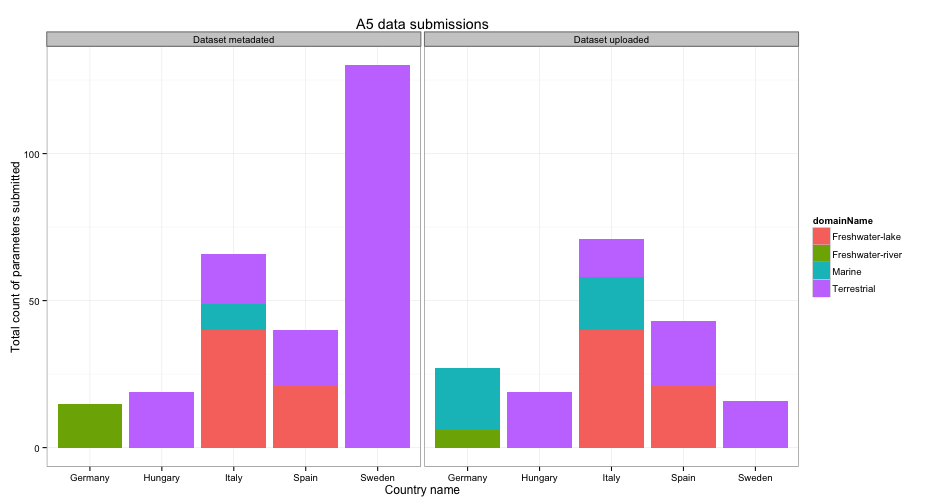
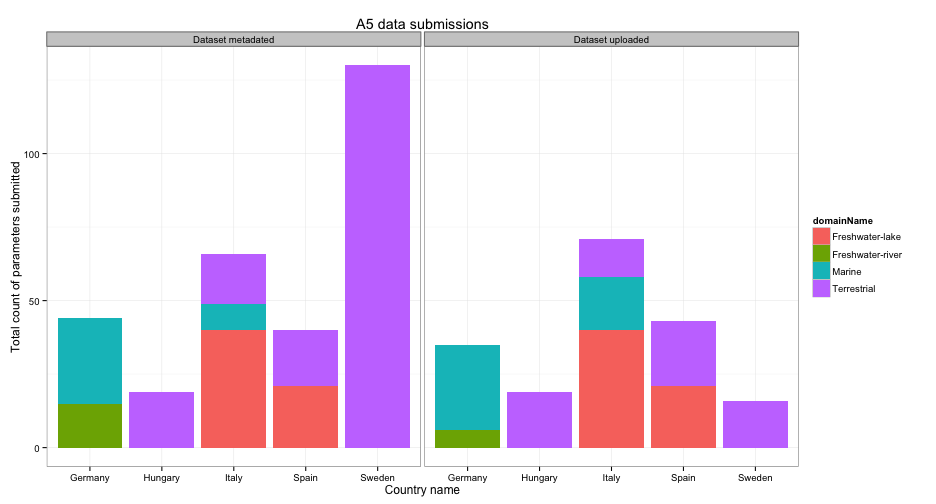
publishing deck

Changed region(s): [[0.062, 0.625, 0.1549, 0.8036], [0.4647, 0.6845, 0.5577, 0.744]]

diff --git a/index.html b/index.html
@@ -48,9 +48,9 @@
   </hgroup>
   <article>
     <ul>
-<li>Last updated <code>2013-03-26</code></li>
+<li>Last updated <code>2013-03-27</code></li>
 <li>Deadline for data submission: <code>2013-03-08</code></li>
-<li>Days to deadline: <code>-18</code></li>
+<li>Days to deadline: <code>-19</code></li>
 <li>Total number of sites sampled in 2012: <code>61</code>; sub-sites: <code>65</code></li>
 </ul>
 
@@ -58,13 +58,13 @@
 
 <!-- html table generated in R 2.15.3 by xtable 1.7-0 package -->
 
-<!-- Tue Mar 26 15:07:12 2013 -->
+<!-- Wed Mar 27 21:37:08 2013 -->
 
 <TABLE border=1>
 <TR> <TH>  </TH> <TH> No. uploaded </TH> <TH> No. metadated </TH> <TH> Total no. </TH> <TH> Upload ratio </TH> <TH> Metadata ratio </TH>  </TR>
-  <TR> <TD align="right"> Year2012 </TD> <TD align="right"> 156 </TD> <TD align="right"> 214 </TD> <TD align="right"> 2026 </TD> <TD align="right"> 0.08 </TD> <TD align="right"> 0.11 </TD> </TR>
-  <TR> <TD align="right"> Year2011 </TD> <TD align="right">  20 </TD> <TD align="right">  56 </TD> <TD align="right"> 265 </TD> <TD align="right"> 0.08 </TD> <TD align="right"> 0.21 </TD> </TR>
-  <TR> <TD align="right"> Sum </TD> <TD align="right"> 176 </TD> <TD align="right"> 270 </TD> <TD align="right"> 2291 </TD> <TD align="right"> 0.08 </TD> <TD align="right"> 0.12 </TD> </TR>
+  <TR> <TD align="right"> Year2012 </TD> <TD align="right"> 156 </TD> <TD align="right"> 230 </TD> <TD align="right"> 2026 </TD> <TD align="right"> 0.08 </TD> <TD align="right"> 0.11 </TD> </TR>
+  <TR> <TD align="right"> Year2011 </TD> <TD align="right">  28 </TD> <TD align="right">  69 </TD> <TD align="right"> 265 </TD> <TD align="right"> 0.11 </TD> <TD align="right"> 0.26 </TD> </TR>
+  <TR> <TD align="right"> Sum </TD> <TD align="right"> 184 </TD> <TD align="right"> 299 </TD> <TD align="right"> 2291 </TD> <TD align="right"> 0.08 </TD> <TD align="right"> 0.13 </TD> </TR>
    </TABLE>
 
   </article>

diff --git a/index.md b/index.md
@@ -26,19 +26,19 @@ github:
 
 ## State of uploading process
 
-* Last updated ``2013-03-26``
+* Last updated ``2013-03-27``
 * Deadline for data submission: `2013-03-08`
-* Days to deadline: ``-18``
+* Days to deadline: ``-19``
 * Total number of sites sampled in 2012: ``61``; sub-sites: ``65``
 
 Parameters uploaded and metadated:
 <!-- html table generated in R 2.15.3 by xtable 1.7-0 package -->
-<!-- Tue Mar 26 15:07:12 2013 -->
+<!-- Wed Mar 27 21:37:08 2013 -->
 <TABLE border=1>
 <TR> <TH>  </TH> <TH> No. uploaded </TH> <TH> No. metadated </TH> <TH> Total no. </TH> <TH> Upload ratio </TH> <TH> Metadata ratio </TH>  </TR>
-  <TR> <TD align="right"> Year2012 </TD> <TD align="right"> 156 </TD> <TD align="right"> 214 </TD> <TD align="right"> 2026 </TD> <TD align="right"> 0.08 </TD> <TD align="right"> 0.11 </TD> </TR>
-  <TR> <TD align="right"> Year2011 </TD> <TD align="right">  20 </TD> <TD align="right">  56 </TD> <TD align="right"> 265 </TD> <TD align="right"> 0.08 </TD> <TD align="right"> 0.21 </TD> </TR>
-  <TR> <TD align="right"> Sum </TD> <TD align="right"> 176 </TD> <TD align="right"> 270 </TD> <TD align="right"> 2291 </TD> <TD align="right"> 0.08 </TD> <TD align="right"> 0.12 </TD> </TR>
+  <TR> <TD align="right"> Year2012 </TD> <TD align="right"> 156 </TD> <TD align="right"> 230 </TD> <TD align="right"> 2026 </TD> <TD align="right"> 0.08 </TD> <TD align="right"> 0.11 </TD> </TR>
+  <TR> <TD align="right"> Year2011 </TD> <TD align="right">  28 </TD> <TD align="right">  69 </TD> <TD align="right"> 265 </TD> <TD align="right"> 0.11 </TD> <TD align="right"> 0.26 </TD> </TR>
+  <TR> <TD align="right"> Sum </TD> <TD align="right"> 184 </TD> <TD align="right"> 299 </TD> <TD align="right"> 2291 </TD> <TD align="right"> 0.08 </TD> <TD align="right"> 0.13 </TD> </TR>
    </TABLE>
 
 
